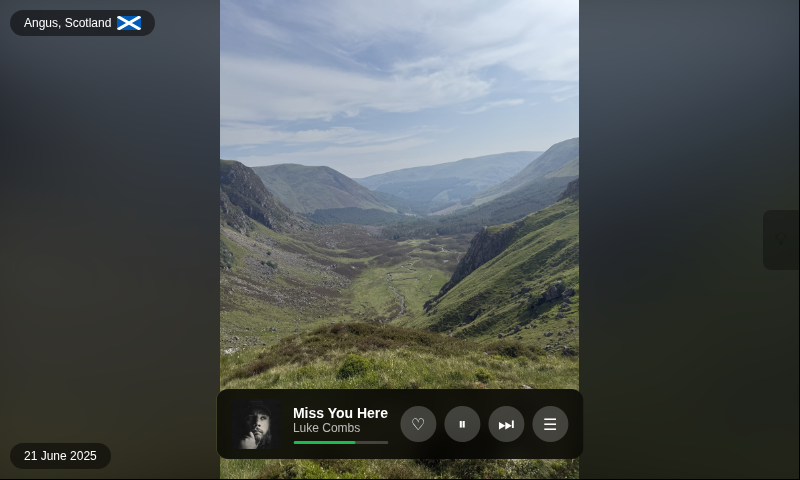
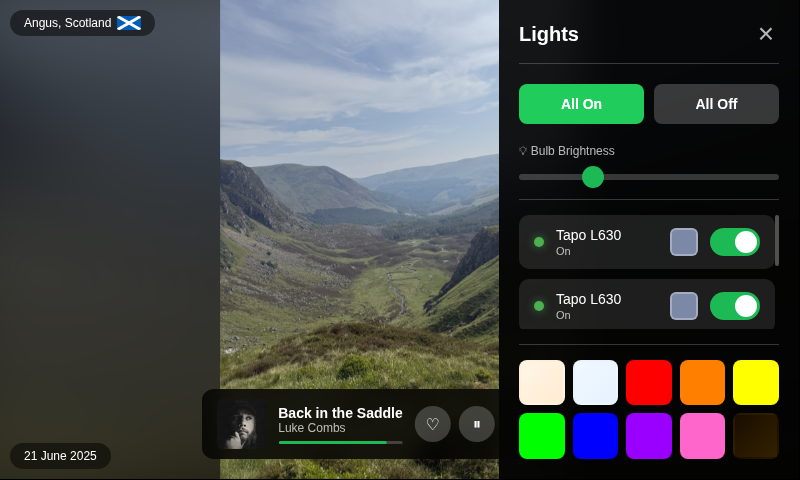
Update README screenshot to show bulb panel open

diff --git a/README.md b/README.md
@@ -2,7 +2,7 @@
 
 PhotoVault turns a Raspberry Pi 3B+ with a 7" DSI touchscreen into a photo frame that also shows what's playing on Spotify. It runs as a Flask app in Chromium kiosk mode. It can control TP-Link Tapo smart bulbs on the same network.
 
-![PhotoVault kiosk showing an Angus hillside with the Spotify overlay](docs/screenshot.png)
+![PhotoVault kiosk with the Spotify overlay and the Tapo bulb panel open](docs/screenshot.png)
 
 ## What it does
 
